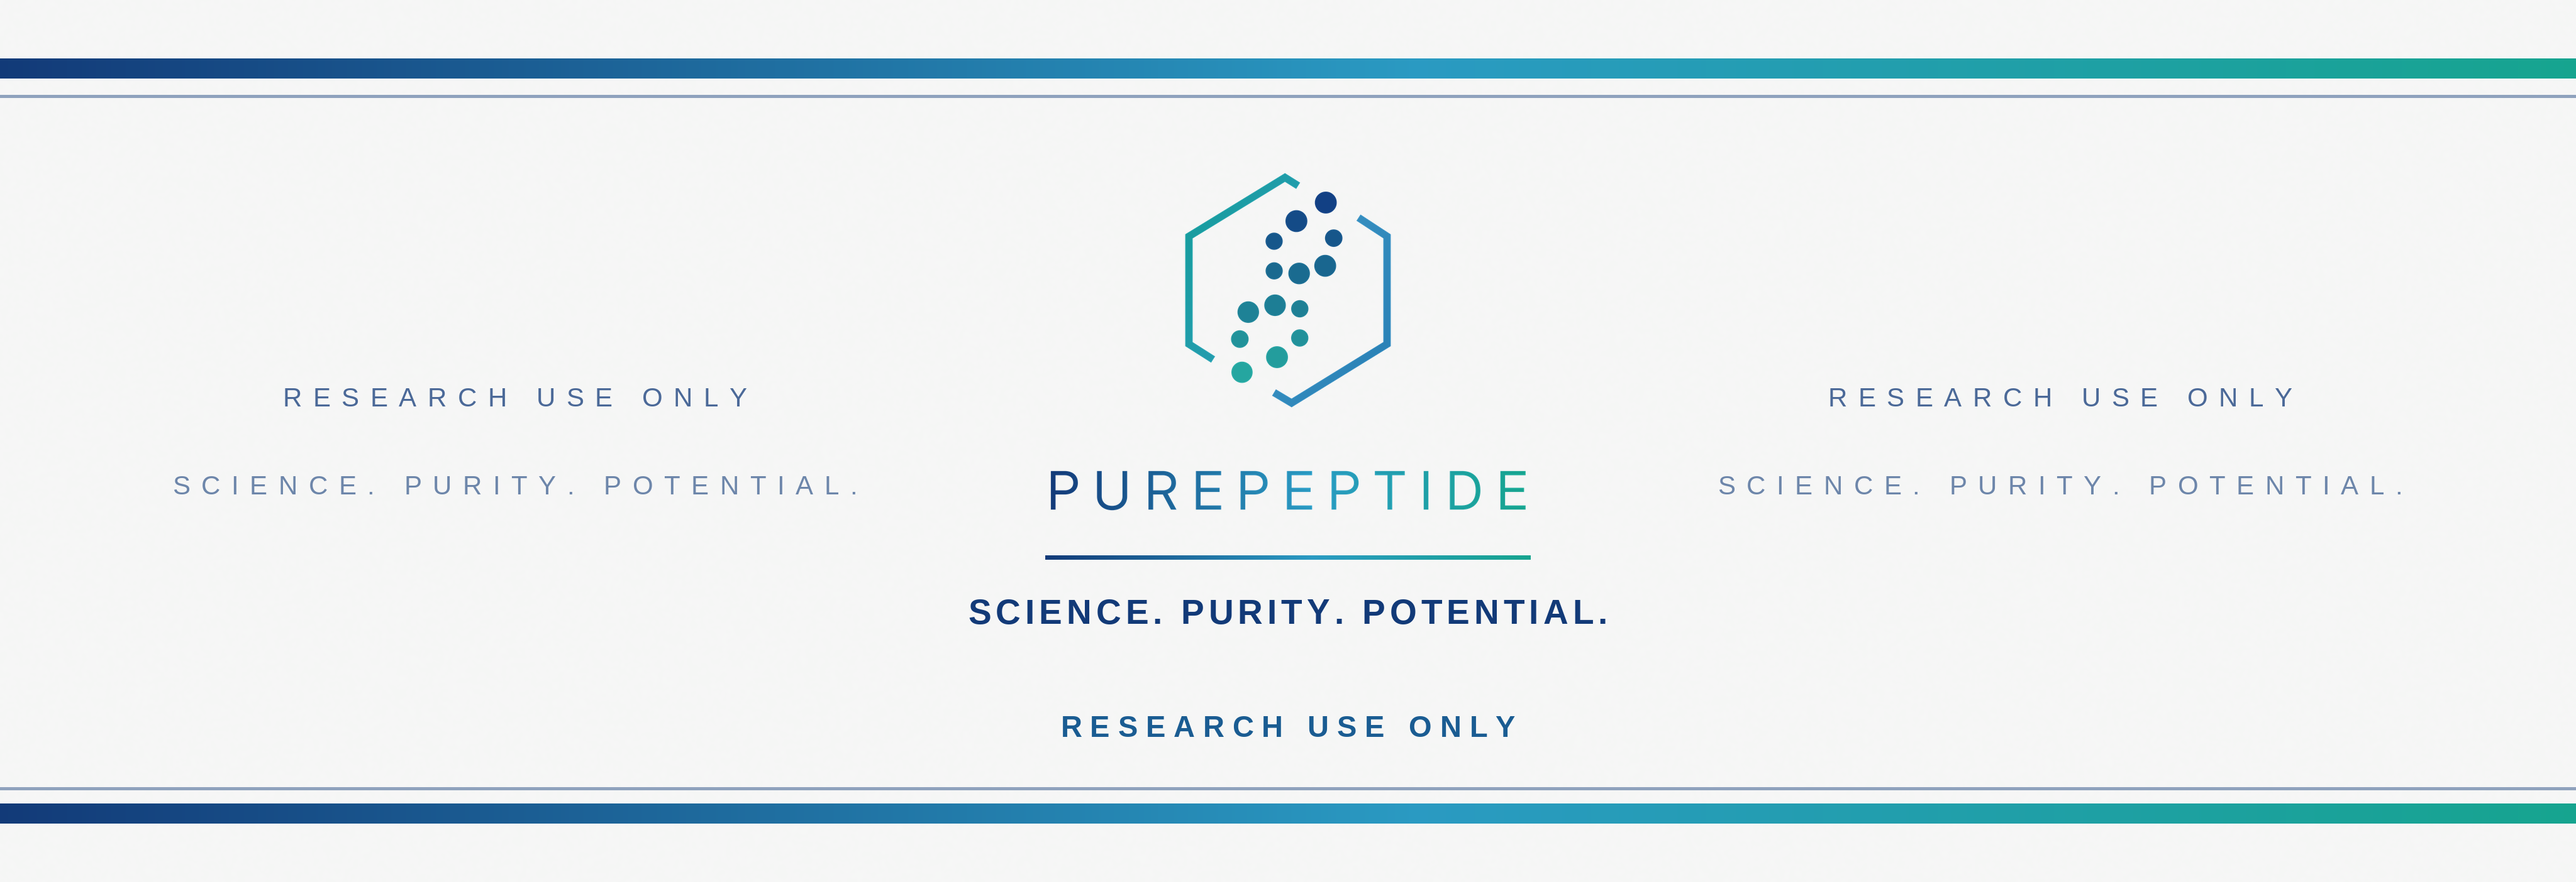
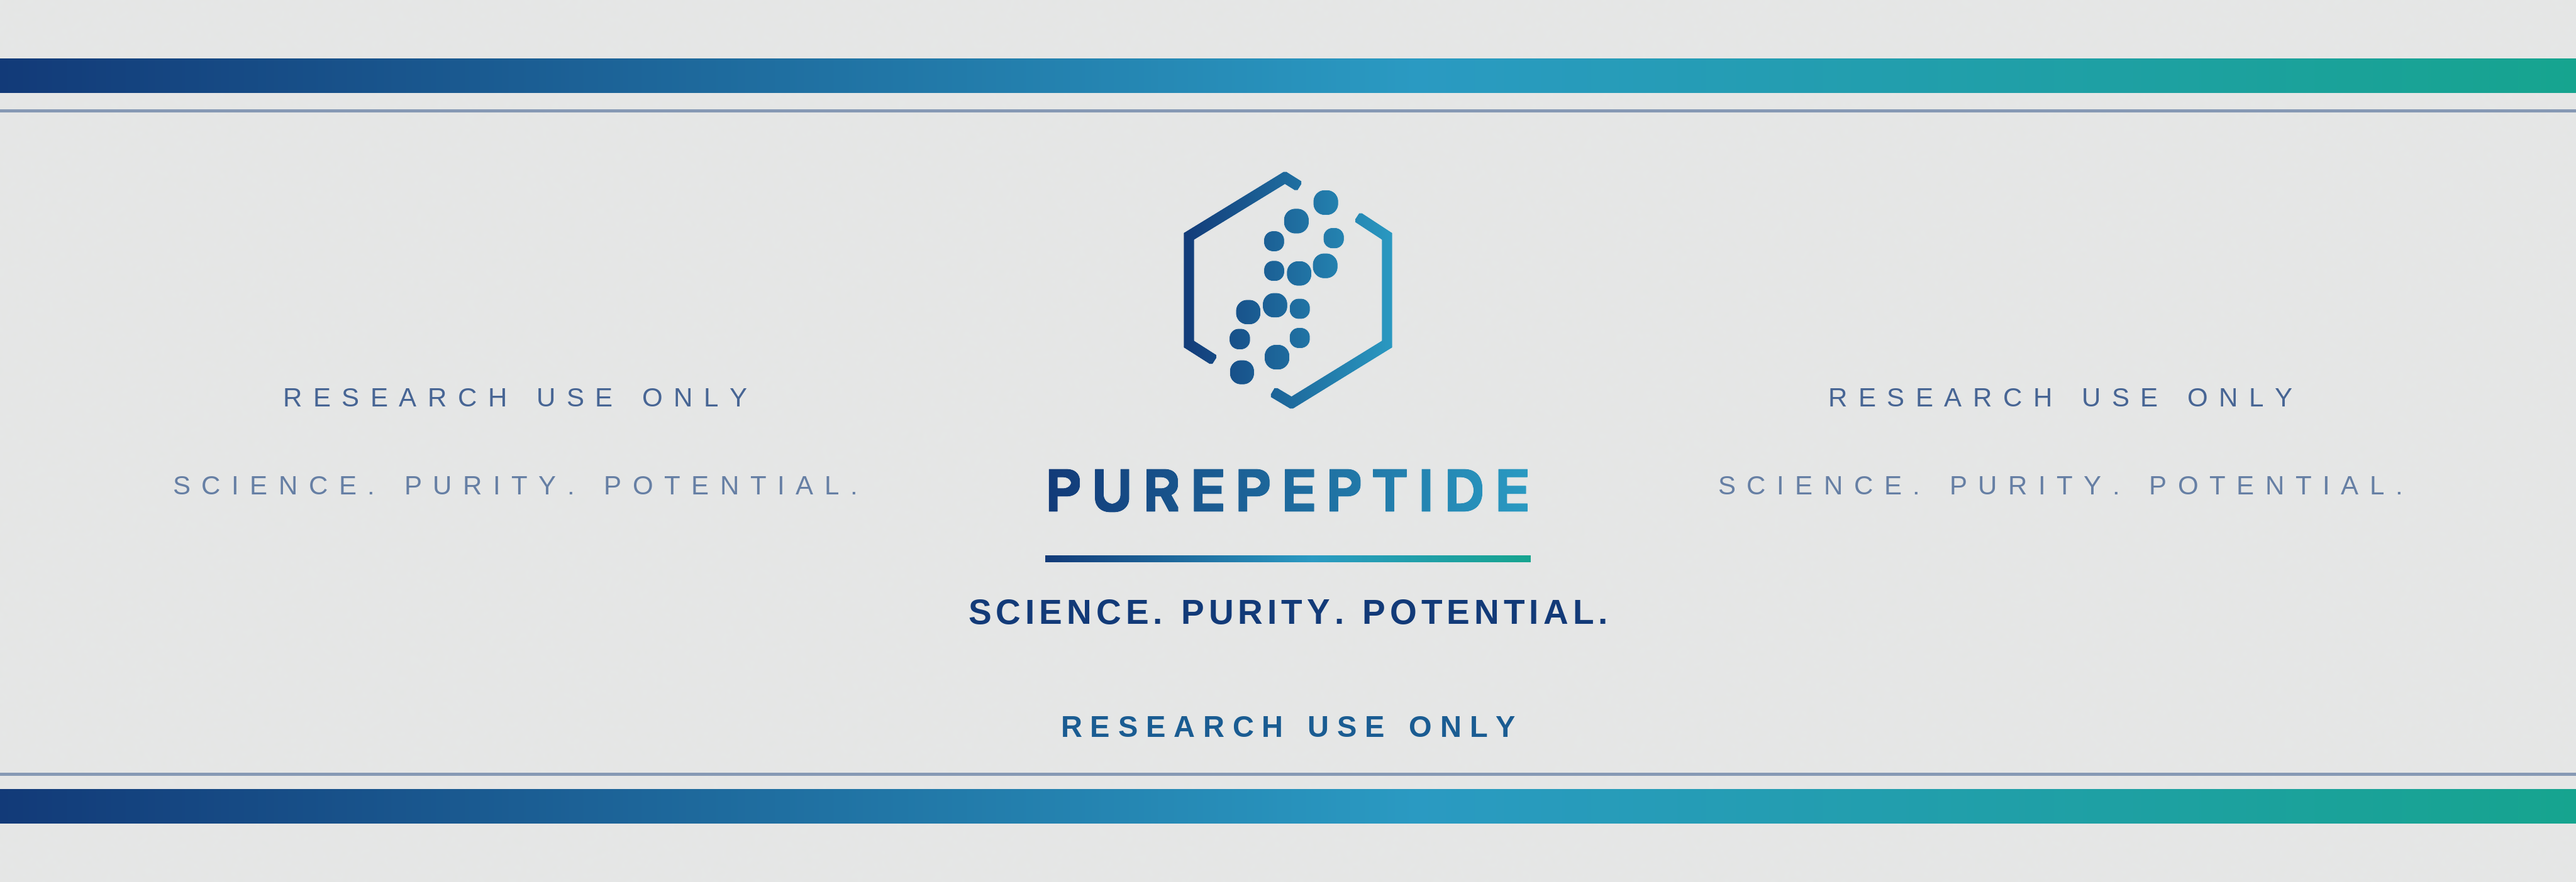
Film produit EN + Blender : travail en cours
Claude-Session: https://claude.ai/code/session_01KtpxvMARYQby4PRHmTSUfa

diff --git a/ads/purepeptide-blender/tools/make_label.py b/ads/purepeptide-blender/tools/make_label.py
@@ -11,7 +11,7 @@ PX_PER_MM = W / 70.0
 FONT_B = '/usr/share/fonts/truetype/liberation/LiberationSans-Bold.ttf'
 FONT_R = '/usr/share/fonts/truetype/liberation/LiberationSans-Regular.ttf'
 C1, C2, C3 = (0x12, 0x3A, 0x78), (0x2A, 0x9A, 0xC2), (0x16, 0xA4, 0x8F)
-PAPER = (246, 247, 246)
+PAPER = (229, 231, 230)  # ~0.8 linear albedo so the white never clips under AgX
 
 def lerp(a, b, t):
     return tuple(int(round(a[i] + (b[i] - a[i]) * t)) for i in range(3))
@@ -28,6 +28,24 @@ def grad_band(w, h):
             px[x, y] = c
     return im
 
+def deep_brand(im_rgba, bold_px):
+    """recolour artwork: full-opacity deep brand gradient #123A78 -> #2A9AC2, strokes thickened."""
+    a = im_rgba.split()[3]
+    if bold_px:
+        a = a.filter(ImageFilter.MaxFilter(bold_px * 2 + 1))
+    a = a.point(lambda v: min(255, int(v * 1.6)))
+    w, h = im_rgba.size
+    g = Image.new('RGB', (w, h))
+    px = g.load()
+    for x in range(w):
+        c = lerp(C1, C2, x / (w - 1))
+        for y in range(h):
+            px[x, y] = c
+    out = g.convert('RGBA')
+    out.putalpha(a)
+    return out
+
+
 def tracked_text(draw_img, text, font, cx, cy, tracking, fill):
     d = ImageDraw.Draw(draw_img)
     widths = [d.textlength(ch, font=font) for ch in text]
@@ -43,11 +61,11 @@ def main():
     # very faint paper fibre noise
     rnd = random.Random(7)
     noise = Image.effect_noise((W // 4, H // 4), 18).resize((W, H), Image.BICUBIC).filter(ImageFilter.GaussianBlur(2))
-    img = Image.blend(img, Image.merge('RGB', [noise.point(lambda v: 238 + v * 0.06)] * 3), 0.25)
+    img = Image.blend(img, Image.merge('RGB', [noise.point(lambda v: 222 + v * 0.06)] * 3), 0.25)
     cx = W // 2
     mm = PX_PER_MM
     # top + bottom brand-gradient bands (full wrap)
-    band_h = int(0.55 * mm)
+    band_h = int(0.95 * mm)
     for y in (int(1.6 * mm), H - int(1.6 * mm) - band_h):
         img.paste(grad_band(W, band_h), (0, y))
     # hairlines next to bands
@@ -57,18 +75,18 @@ def main():
     # symbol
     sym = Image.open(os.path.join(A, 'brand-symbol.png')).convert('RGBA')
     sh = int(6.6 * mm)
-    sym = sym.resize((int(sym.width * sh / sym.height), sh), Image.LANCZOS)
+    sym = deep_brand(sym.resize((int(sym.width * sh / sym.height), sh), Image.LANCZOS), 2)
     sy = int(4.6 * mm)
     img.paste(sym, (cx - sym.width // 2, sy), sym)
     # wordmark
     wm = Image.open(os.path.join(A, 'brand-wordmark.png')).convert('RGBA')
     ww = int(13.2 * mm)
-    wm = wm.resize((ww, int(wm.height * ww / wm.width)), Image.LANCZOS)
+    wm = deep_brand(wm.resize((ww, int(wm.height * ww / wm.width)), Image.LANCZOS), 3)
     wy = sy + sh + int(1.5 * mm)
     img.paste(wm, (cx - ww // 2, wy), wm)
     # thin gradient rule under wordmark
     ry = wy + wm.height + int(1.1 * mm)
-    img.paste(grad_band(ww, max(3, int(0.12 * mm))), (cx - ww // 2, ry))
+    img.paste(grad_band(ww, max(6, int(0.2 * mm))), (cx - ww // 2, ry))
     # tagline
     f_tag = ImageFont.truetype(FONT_B, int(0.95 * mm))
     tracked_text(img, 'SCIENCE. PURITY. POTENTIAL.', f_tag, cx, ry + int(1.55 * mm), 0.12 * mm, C1)

diff --git a/ads/purepeptide-blender/tools/render_shot.py b/ads/purepeptide-blender/tools/render_shot.py
@@ -141,6 +141,8 @@ def setup_frame(rig, shot, t):
         e = ease(t) if shot == 'hero' else 1.0
         tt = t if shot == 'hero' else 1.0
         dist = lerp(0.40, 0.355, 1 - (1 - tt) ** 2)
+        if shot == 'hero_still':
+            dist = 0.322  # tighter end card: vial ~75 % of frame height
         loc = (0, -dist, 0.03)
         aim(cam, loc, (0, 0, 0.0285))
         rig.energy('Key_Rim', lerp(0.15, 1.0, e))
@@ -164,9 +166,9 @@ def setup_frame(rig, shot, t):
     elif shot == 'label_still':
         # close 3/4 on the label, logo sharp
         cd.lens = 100
-        cd.dof.aperture_fstop = 4.0
+        cd.dof.aperture_fstop = 5.6
         az = math.radians(-32)
-        dist = 0.15
+        dist = 0.165
         tgt = Vector((0, 0, 0.0185))
         loc = tgt + Vector((dist * math.sin(az), -dist * math.cos(az), 0.012))
         aim(cam, loc, tgt)
